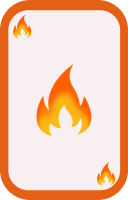
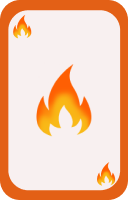
Card images changed to fix the border-radius

diff --git a/frontend/game-board/styles/styles.css b/frontend/game-board/styles/styles.css
@@ -1,14 +1,23 @@
 * {
     font-family: 'Times New Roman', Times, serif;
+    box-sizing: border-box;
 }
 
 body {
     width: 100vw;
-    height: 100vh;
+    max-height: 100vh;
+    /* overflow: hidden; */
     background-image: url("../assets/background.svg");
     background-size: cover;
     display: flex;
     flex-direction: column;
+}
+
+header {
+    display: flex;
+    flex-direction: row;
+    justify-content: space-around;
+    align-items: center;
 }
 
 #first-cheap {
@@ -45,13 +54,57 @@ body {
 
 #second-cheap {
     width: 8%;
-    align-self: flex-end;
-    z-index: -1;
     margin-right: 15%;
+    
+    position: relative;
 }
 
-/* Menu */
+#img-second-cheap {
+    margin-right: 0;
+    width: 100%;
+    z-index: -1;
+    position: relative;
+}
 
+/* -------------------Flip da carta------------------- */
+
+#pickable-verso, #pickable-card {
+    width: 100%;
+}
+
+.flip-card {
+    position: absolute;
+
+    width: 90%;
+    height: 92%;
+    z-index: 1;
+    background-color: red;
+    perspective: 1000px;
+    
+}
+
+.flip-card-inner {
+    width: 100%;
+    height: 100%;
+    transition: transform 0.8s;
+    transform-style: preserve-3d;
+}
+
+.flip-card-front, .flip-card-back {
+    position: absolute;
+    width: 100%;
+    height: 100%;
+    -webkit-backface-visibility: hidden; /* Safari */
+    backface-visibility: hidden;
+}
+
+.flip-card-back {
+    transform: rotateY(180deg);
+}
+/* -------------------FINAL Flip da carta------------------- */
+
+
+/* -------------------Menu------------------- */
 #menu {
     width: 20vw;
     height: 100vh;
@@ -82,15 +135,6 @@ body {
     cursor: pointer;
 }
 
-/* FINAL Menu */
-
-header {
-    display: flex;
-    flex-direction: row;
-    justify-content: space-around;
-    align-items: center;
-}
-
 #btn-menu-in {
     margin-top: 5vh;
     margin-left: 3vw;
@@ -116,8 +160,10 @@ header {
     border-radius: 0px 0px 0px 30px;
 }
 
-/* Modais */
+/* -------------------FINAL Menu------------------- */
 
+
+/* Modais */
 .modal {
     /* Sizing */
     width: 30vw;
@@ -208,52 +254,4 @@ header {
 #img-rules {
     width: 50%;
 }
-
 /* FINAL Modais */
-
-/* Flip da carta */
-
-#pickable-verso, #pickable-card {
-    width: 100%;
-}
-
-.flip-card {
-    background-color: red;
-    float: right;
-    width: 8%;
-    height: fit-content;
-    border: 1px solid #f1f1f1;
-    perspective: 1000px;
-}
-
-/* This container is needed to position the front and back side */
-.flip-card-inner {
-    position: relative;
-    width: 100%;
-    height: 100%;
-    text-align: center;
-    transition: transform 0.8s;
-    transform-style: preserve-3d;
-}
-
-/* Position the front and back side */
-.flip-card-front, .flip-card-back {
-    position: absolute;
-    width: 100%;
-    height: 100%;
-    -webkit-backface-visibility: hidden; /* Safari */
-    backface-visibility: hidden;
-}
-
-/* Style the front side (fallback if image is missing) */
-.flip-card-front {
-    color: black;
-}
-
-/* Style the back side */
-.flip-card-back {
-    color: white;
-    transform: rotateY(180deg);
-}
-
-/* FINAL Flip da carta */

diff --git a/frontend/game-board/index.html b/frontend/game-board/index.html
@@ -17,14 +17,16 @@
     </head>
 
     <body>
-        <!-- <nav id="menu">
+
+        <nav id="menu">
             <img src="./assets/menu_open_white_24dp.svg" alt="" onclick="closeModal('menu')" id="btn-menu-out">
             <ul>
                 <li>Teste</li>
                 <li onclick="openModal('modal-rules')">Consultar regras</li>
                 <li onclick="openModal('modal-logoff')">Sair</li>
             </ul>
-        </nav> -->
+        </nav>
+
         <header>
             <img src="./assets/menu_white_24dp.svg" alt="" onclick="openModal('menu')" id="btn-menu-in">
             <div id="game-score">
@@ -36,19 +38,32 @@
 
         <img id="first-cheap" src="./assets/cheap.svg" alt="">
         <img id="playing-card-field" src="./assets/playing-card-field.svg" alt="">
+        <div id="container-hand-cards-and-second-cheap">
 
-        <div class="flip-card">
-            <div class="flip-card-inner">
-                <div class="flip-card-front">
-                    <img id="pickable-verso" src="assets/verso.png" alt="" onclick="flipCard()">
-                </div>
+            <div class="container-cards-from-hand" id="container-first-hand-card"> </div>
+            <div class="container-cards-from-hand" id="container-second-hand-card"> </div>
+            <div class="container-cards-from-hand" id="container-third-hand-card"> </div>
 
-                <!-- Arrastar esse lado -->
-                <div class="flip-card-back">
-                    <img id="pickable-card" src="assets/card-Eter.png" alt="">
-                </div>
+            <div id="second-cheap">
+                <img id="img-second-cheap" src="./assets/cheap.svg" alt="">
+                
+                <!-- <div class="flip-card">
+                    <div class="flip-card-inner">
+                        <div class="flip-card-front">
+                            <img id="pickable-verso" src="assets/verso.png" alt="" onclick="flipCard()">
+                        </div>
+                        <div class="flip-card-back">
+                            <img id="pickable-card" src="assets/card-Eter.png" alt="">
+                        </div>
+                    </div>
+                </div> -->
             </div>
+            
+            
         </div>
+
+
+        
 
         <div id="modal-logoff" class="modal">
             <h3>Deseja mesmo sair?</h3>

diff --git a/frontend/to-do.md b/frontend/to-do.md
@@ -12,6 +12,7 @@
     Definir fonte padrão
     Tornar responsivo, ajustar font-size para em
     Setar o cursor do montinho para pointer quanto for a vez dele jogar
+    Fazer a soma das medidas para tirar o overflow
 
 ## JavaScript
     Solicitar visibility dos modais
